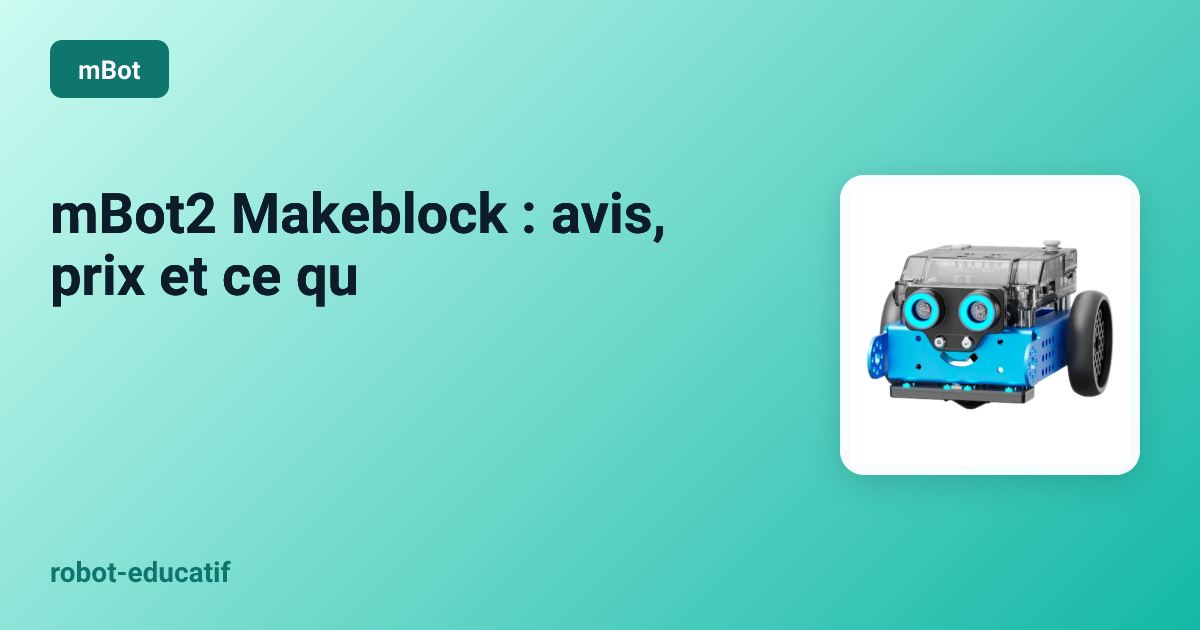
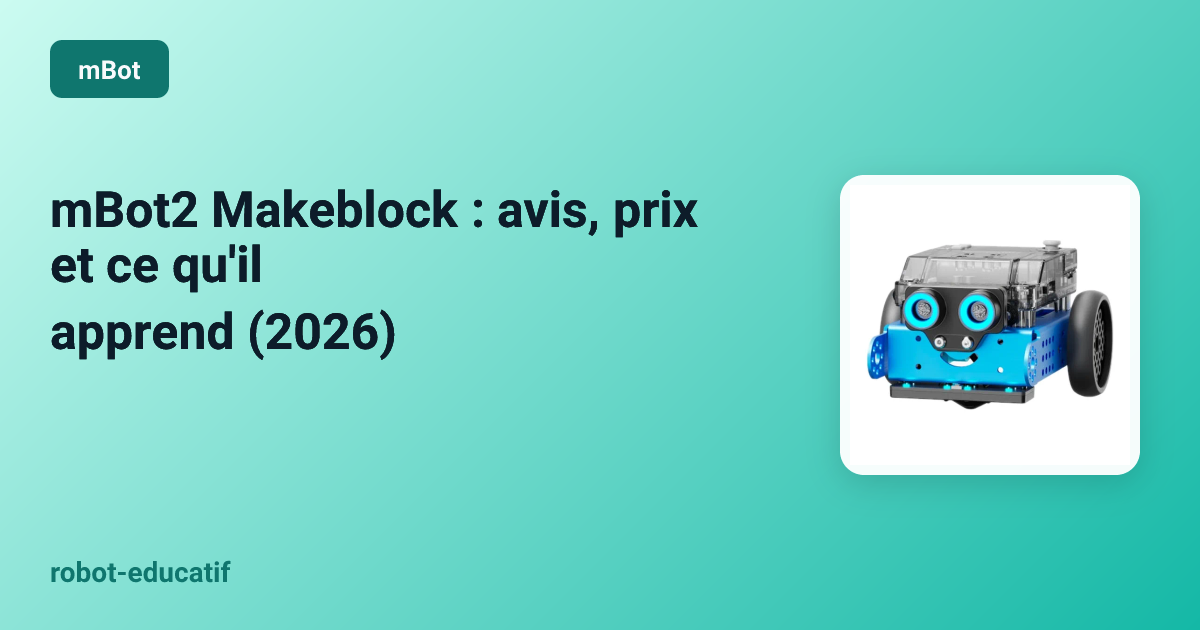
fix: titres complets + WebP + bannière entière + cache
Corrections lot 2 :

1. Parseur YAML complet (gray-matter)
   - Fini les coupures sur apostrophes droites
   - Tous les titres préservés intégralement
   - 143 vignettes régénérées PNG + WebP

2. Hub domotique og:image corrigée
   - Avant : /images/blog-placeholder-1.jpg (404)
   - Après : /images/blog-thumbnails/domotique-hub.png (existe)

3. Vignettes WebP pour performance
   - PNG (og:image) : 160-325 Ko
   - WebP (listes/bannières) : ~50% plus léger, qualité 82
   - 143 fichiers .webp générés

4. Bannière affichée en entier
   - Avant : 1280×360 en cover (coupe 46% de la hauteur)
   - Après : max-width 900px, aspect-ratio 1200/630, contain
   - Badge et marque visibles

5. Système de cache ?v=BUILD_TIME
   - Helper withImageVersion() créé
   - Appliqué aux bannières WebP
   - URLs versionnées pour cache immutable .htaccess

Vignettes corrigées : mbot-avis, mbot2-de-makeblock, robot-pedagogique-ecole, serie-capteur-ultrason-4

Changed region(s): [[0.0308, 0.3016, 0.5858, 0.573]]

diff --git a/src/lib/imageVersion.ts b/src/lib/imageVersion.ts
@@ -1,0 +1,34 @@
+/**
+ * Ajoute un paramètre de version aux URLs d'images pour le cache
+ * Format: /images/blog-thumbnails/slug.png?v=BUILD_TIME
+ */
+
+// Timestamp du build (constant pendant toute la build)
+const BUILD_TIME = Date.now().toString(36);
+
+/**
+ * Ajoute ?v= à une URL d'image
+ */
+export function withImageVersion(url: string): string {
+	if (!url) return url;
+	
+	// Ne versioner que les images locales
+	if (url.startsWith('http://') || url.startsWith('https://')) {
+		return url;
+	}
+	
+	// Ajouter ?v= seulement aux images dans /images/
+	if (url.includes('/images/')) {
+		const separator = url.includes('?') ? '&' : '?';
+		return `${url}${separator}v=${BUILD_TIME}`;
+	}
+	
+	return url;
+}
+
+/**
+ * Version spécifique pour les images Astro (ImageMetadata)
+ */
+export function getImageVersionParam(): string {
+	return `v=${BUILD_TIME}`;
+}
